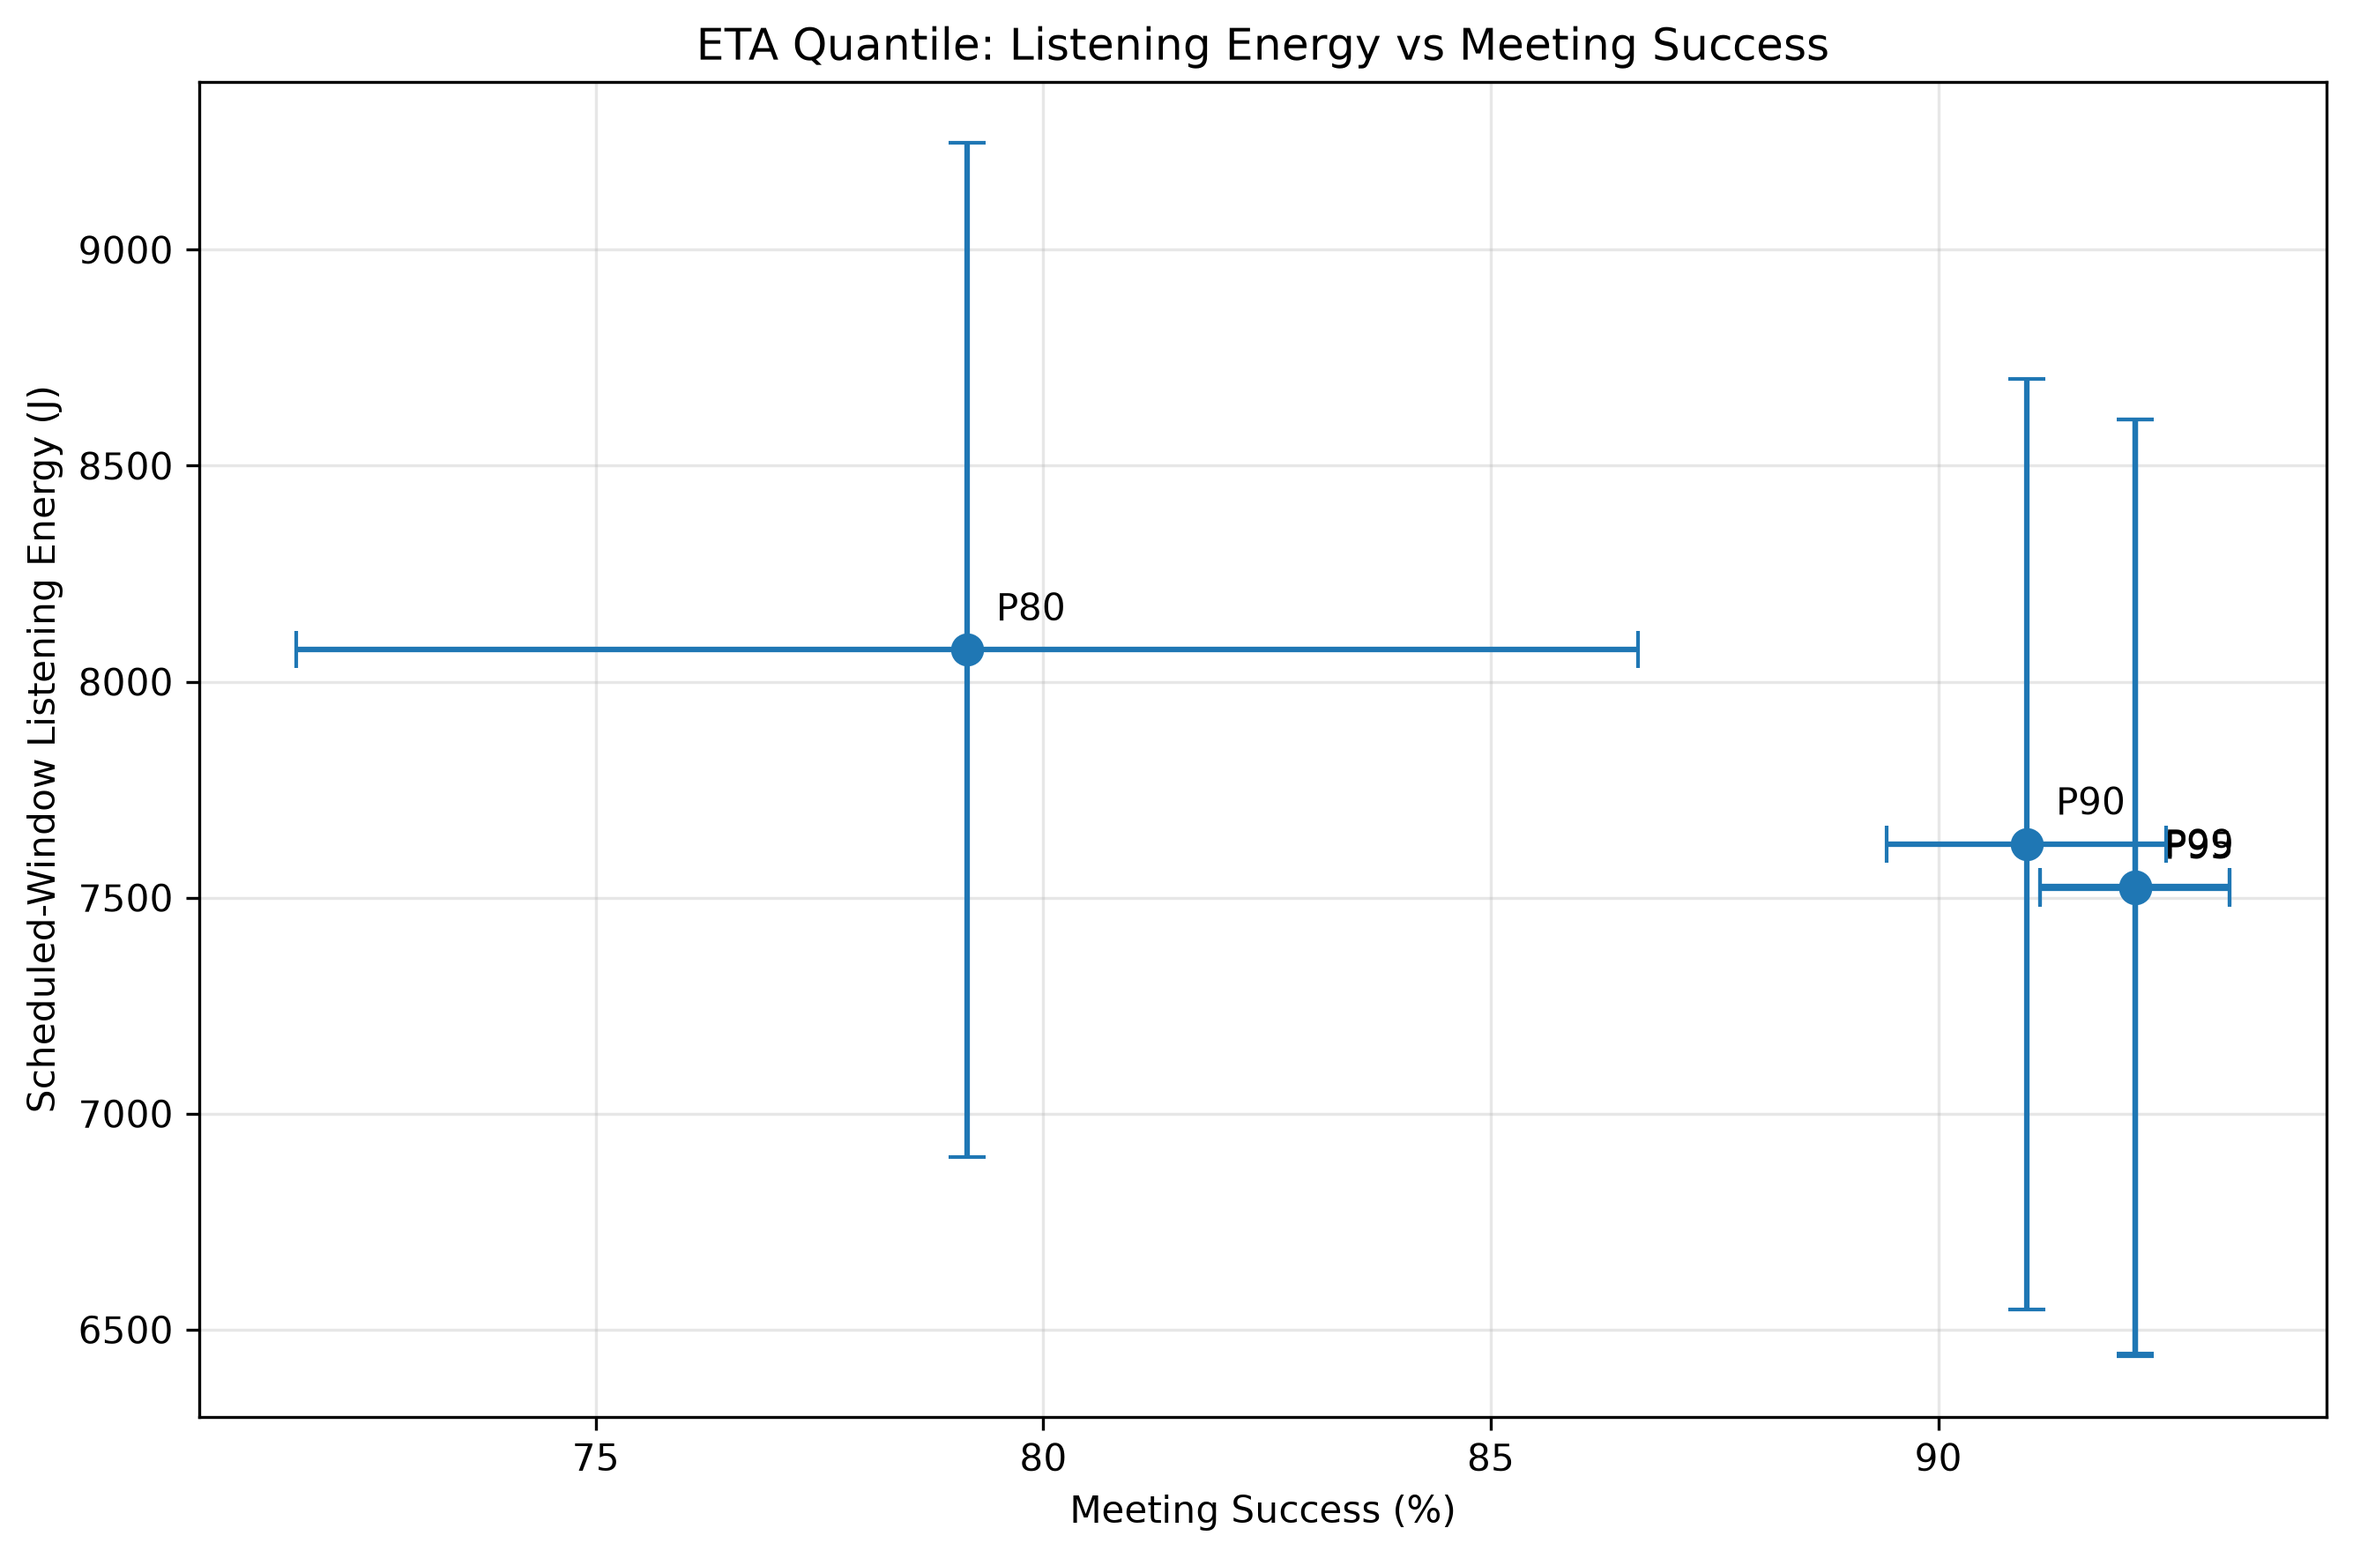
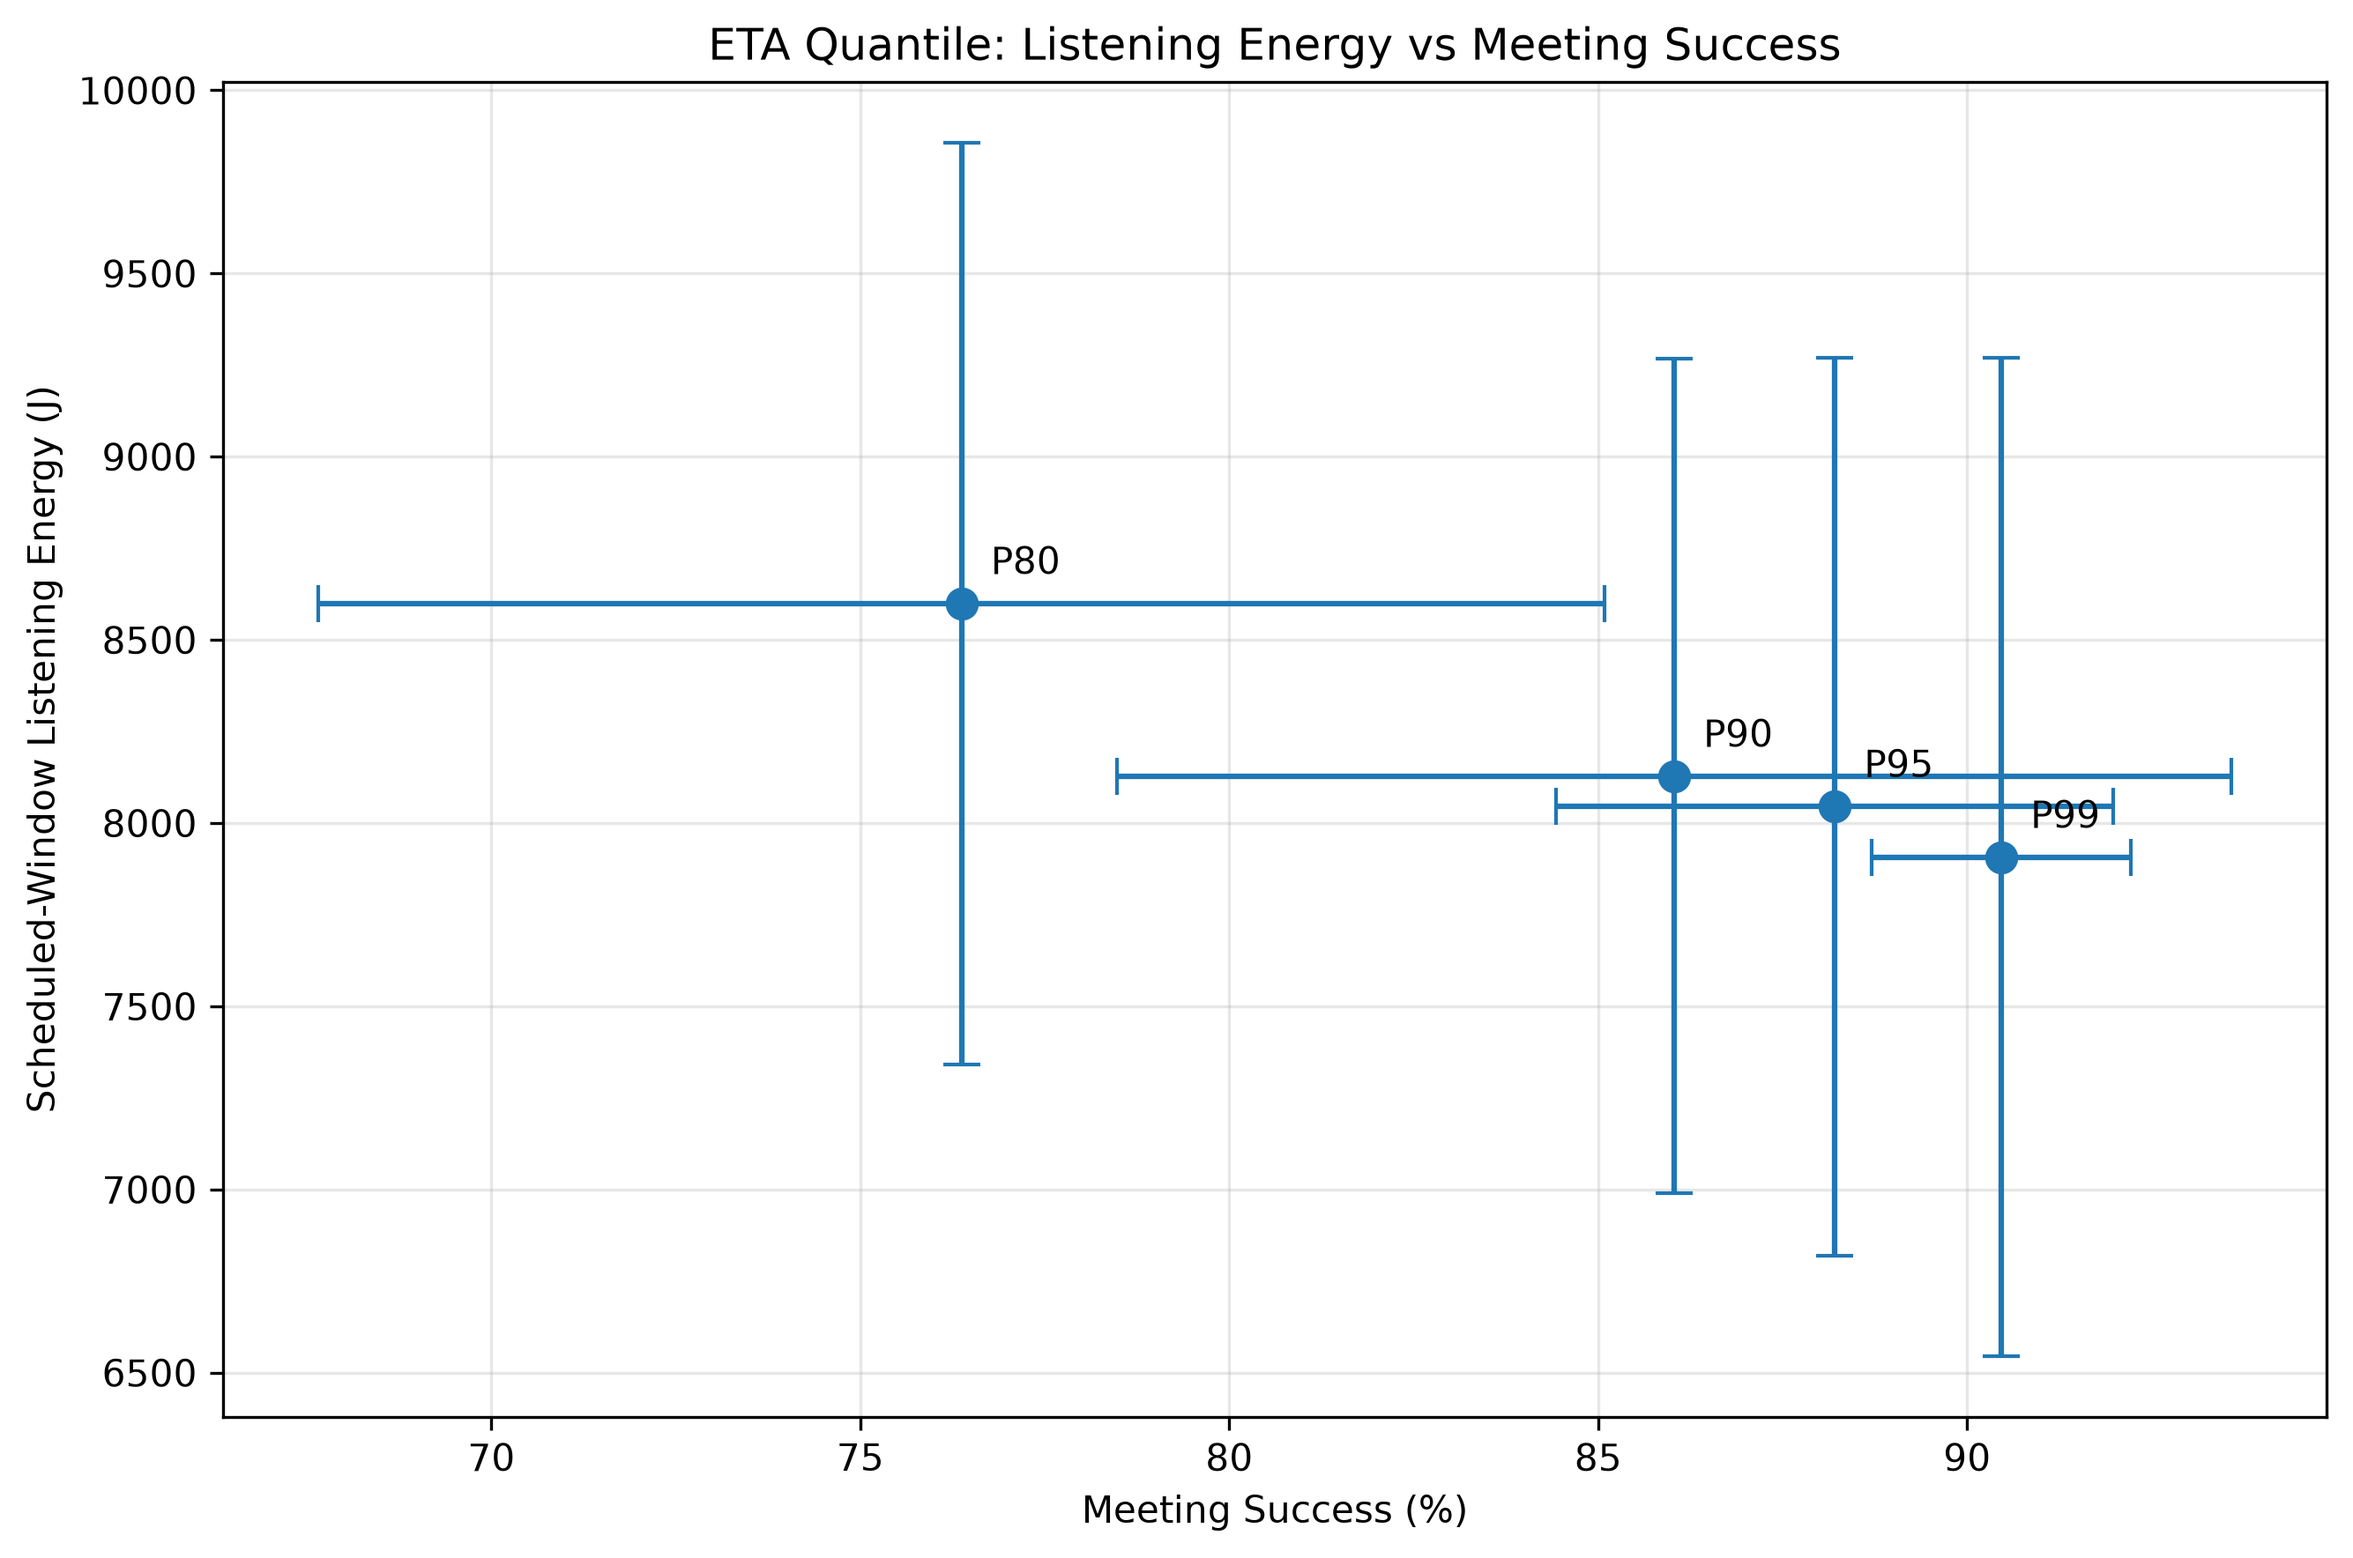
Fix wake energy accounting and update ETA sweep results

diff --git a/simulation/ns3/wsn-uav/uav-app.cc b/simulation/ns3/wsn-uav/uav-app.cc
@@ -539,6 +539,7 @@ UavApp::Receive(Ptr<Socket> socket)
                 {
                     lateMargin = CalculateQuantile(it->second, m_w->cfg.etaQuantile);
                 }
+                lateMargin = std::max(0.0, lateMargin);
 
                 plan.lateWidthNs = static_cast<int64_t>(lateMargin * 1e9);
                 m_lateWidth[m.cluster] = plan.lateWidthNs * 1e-9;

diff --git a/simulation/ns3/wsn-uav/ch-app.cc b/simulation/ns3/wsn-uav/ch-app.cc
@@ -182,6 +182,7 @@ void
 ClusterHeadApp::CloseWindow()
 {
 
+    FinishWindowEnergyMeasurement();
     m_inWindow = false;
     m_c.windowListenTime += Simulator::Now().GetSeconds() - m_windowOpen;
 

diff --git a/docs/handoff/phase2.md b/docs/handoff/phase2.md
@@ -38,9 +38,9 @@ The work is intended to provide the routing and state representation needed for 
 | ETA lateness estimation | Lateness recorded using promised and actual arrival times | Implemented |
 | Adaptive wake windows | Empirical lateness quantile used for late-window margin | Implemented |
 | Routing integration tests | Actual ns-3 simulations used | Passed |
-| Full automated test suite | 31 tests | Passed |
-| ETA p-sweep analysis | p80, p90, p95, p99 results collected | Preliminary results available |
-| ETA listening-energy comparison and plot | Requires final isolated listening-energy analysis and plot | Pending |
+| Full automated test suite | 35 tests | Passed |
+| ETA p-sweep analysis | p80, p90, p95, p99 across 10 seeds (40 runs) | Completed |
+| ETA listening-energy comparison and plot | Corrected scheduled-window energy measurement | Completed |
 | Final handoff documentation | This document | In progress |
 
 ---
@@ -464,8 +464,8 @@ The table reports the mean and standard deviation across ten seeds.
 | Metric | p80 | p90 | p95 | p99 |
 |---|---:|---:|---:|---:|
 | Runs | 10 | 10 | 10 | 10 |
-| Meeting success (%) | 79.144 ± 7.497 | 90.985 ± 1.562 | 92.197 ± 1.059 | 92.197 ± 1.059 |
-| Scheduled-window listening energy (J) | 8073.594 ± 1174.935 | 7624.195 ± 1077.210 | 7522.081 ± 1084.122 | 7526.501 ± 1081.461 |
+| Meeting success (%) | 76.370 ± 8.713 | 86.028 ± 7.547 | 88.205 ± 3.778 | 90.461 ± 1.761 |
+| Scheduled-window listening energy (J) | 8599.539 ± 1258.454 | 8127.952 ± 1138.531 | 8045.504 ± 1225.591 | 7906.702 ± 1362.212 |
 
 Summary CSV:
 
@@ -477,26 +477,30 @@ Plot:
 
 The plot compares mean meeting success against mean scheduled-window listening energy. Error bars represent one standard deviation across seeds on each axis.
 
+The scheduled-window energy values include energy accumulated during missed scheduled windows, measured when each window closes.
+
 ### 8.3 Interpretation
 
-Increasing the lateness quantile from p80 to p95 improves observed meeting success and reduces mean scheduled-window listening energy.
+Increasing the lateness quantile from p80 to p99 improves observed meeting success and reduces mean scheduled-window listening energy.
 
-- p80 has the lowest meeting success (79.144%) and highest mean listening energy (8073.594 J).
-- p90 improves meeting success to 90.985% and reduces mean energy to 7624.195 J.
-- p95 achieves the highest observed meeting success (92.197%) and the lowest mean energy (7522.081 J).
-- p99 has the same observed meeting success as p95, with a very similar mean energy (7526.501 J).
+- **p80** has the lowest meeting success (76.370%) and highest mean listening energy (8599.539 J).
+- **p90** improves meeting success to 86.028% and reduces mean energy to 8127.952 J.
+- **p95** achieves 88.205% meeting success with mean energy of 8045.504 J.
+- **p99** achieves the highest meeting success (90.461%) and the lowest mean scheduled-window listening energy (7906.702 J).
 
-For these tested seeds, p95 is a reasonable choice among the four variants. Increasing the quantile beyond p95 does not produce an observable meeting-success improvement.
+For these tested seeds, p99 performs best among the four variants in both mean meeting success and mean scheduled-window listening energy.
 
-Energy standard deviations are substantial, so differences in mean energy should not be interpreted as proof of statistical significance.
+However, the energy standard deviations are substantial. These results do not establish statistical significance or prove that p99 is universally optimal.
+
+The results should be interpreted within the tested network size, topology, and UAV-delay configuration.
 
 ### 8.4 Limitations
 
 1. The experiment covers one network size (100 sensors) and ten random seeds.
 2. There is substantial run-to-run variation in scheduled-window listening energy.
-3. Identical p95 and p99 mean meeting success does not establish equivalence under other configurations.
+3. Although p99 has higher mean meeting success than p95 in this experiment, the results do not establish that the difference is statistically significant.
 4. Scheduled-window listening energy must be distinguished from total primary cluster-head energy and overall Wi-Fi awake time.
-5. These results do not establish that p95 is optimal for every topology, network size, or delay distribution.
+5. These results do not establish that p99 is optimal for every topology, network size, or delay distribution.
 
 ## 9. Routing Baseline Experiment
 
@@ -691,13 +695,13 @@ Final result:
 
 ```text
 ========================= test session starts ==========================
-collected 31 items
+collected 35 items
 
 tests/test_clustering.py       19 passed
 tests/test_routing_policies.py  6 passed
-tests/test_simulation.py        6 passed
+tests/test_simulation.py        10 passed
 
-========================= 31 passed in 18.87s ==========================
+========================= 35 passed in 18.87s ==========================
 ```
 
 ### Test coverage summary
@@ -706,8 +710,8 @@ tests/test_simulation.py        6 passed
 |---|---:|---|
 | `tests/test_clustering.py` | 19 | Passed |
 | `tests/test_routing_policies.py` | 6 | Passed |
-| `tests/test_simulation.py` | 6 | Passed |
-| **Total** | **31** | **Passed** |
+| `tests/test_simulation.py` | 10 | Passed |
+| **Total** | **35** | **Passed** |
 
 The tests cover:
 
@@ -849,9 +853,11 @@ These metrics describe different aspects of energy consumption and radio activit
 
 ### 14.3 Quantile selection
 
-P95 has the lowest observed mean scheduled-window listening energy and ties P99 on meeting success in the current experiment.
+P99 has the highest observed mean meeting success (90.461%) and the lowest mean scheduled-window listening energy (7906.702 J) among the four tested variants.
 
-However, the energy standard deviations are substantial. The results do not establish statistical significance or prove that p95 is universally optimal.
+P95 achieves 88.205% meeting success and 8045.504 J mean scheduled-window listening energy.
+
+However, the energy standard deviations are substantial. The results do not establish statistical significance or prove that p99 is universally optimal.
 
 ### 14.4 Nearest-feasible coverage
 
@@ -887,7 +893,7 @@ Additional network sizes and delay configurations would strengthen the generalit
 | Ten-seed routing comparison | Run |
 | Cluster coverage analysis | Run |
 | Routing integration tests | 6 passed |
-| Full automated test suite | 31 passed |
+| Full automated test suite | 35 passed |
 | Final documentation/configuration audit | Pending |
 | Final Git review and commit | Pending |
 
@@ -898,13 +904,16 @@ The core Phase 2 implementation and automated tests are complete.
 
 The routing baselines have been evaluated across ten seeds, and the ETA quantile experiment has been completed across ten seeds for each of p80, p90, p95, and p99 (40 runs total).
 
-The ETA analysis now includes:
-- A comparison of meeting success and scheduled-window listening energy.
-- Mean and standard deviation across ten seeds.
-- A generated summary CSV.
-- An energy-versus-meeting-success plot.
+The results indicate that p99 achieves the highest observed mean meeting success (90.461%) and the lowest mean scheduled-window listening energy (7906.702 J) among the tested variants.
 
-The results indicate that p95 achieves the highest observed meeting success (tied with p99) and the lowest mean scheduled-window listening energy among the tested variants. These findings are limited to the current experiment configuration.
+These findings are based on ten seeds and are limited to the current experiment configuration.
+
+The ETA analysis includes:
+- A comparison of meeting success and corrected scheduled-window listening energy.
+- Mean and standard deviation across ten seeds.
+- A regenerated summary CSV.
+- An updated energy-versus-meeting-success plot.
+- Energy accounting that includes missed scheduled windows.
 
 Before the Phase 2 handoff is finalized, the remaining work is:
 
@@ -912,4 +921,4 @@ Before the Phase 2 handoff is finalized, the remaining work is:
 2. Review the final Git changes and ensure generated result files are not accidentally included.
 3. Commit the reviewed Phase 2 changes on the appropriate branch.
 
-**Current status: Core implementation, experiments, analysis outputs, and automated tests complete; final audit and Git review pending.**
+**Current status: Core implementation, corrected energy accounting, experiments, analysis outputs, and automated tests complete; final audit and Git review pending.**
